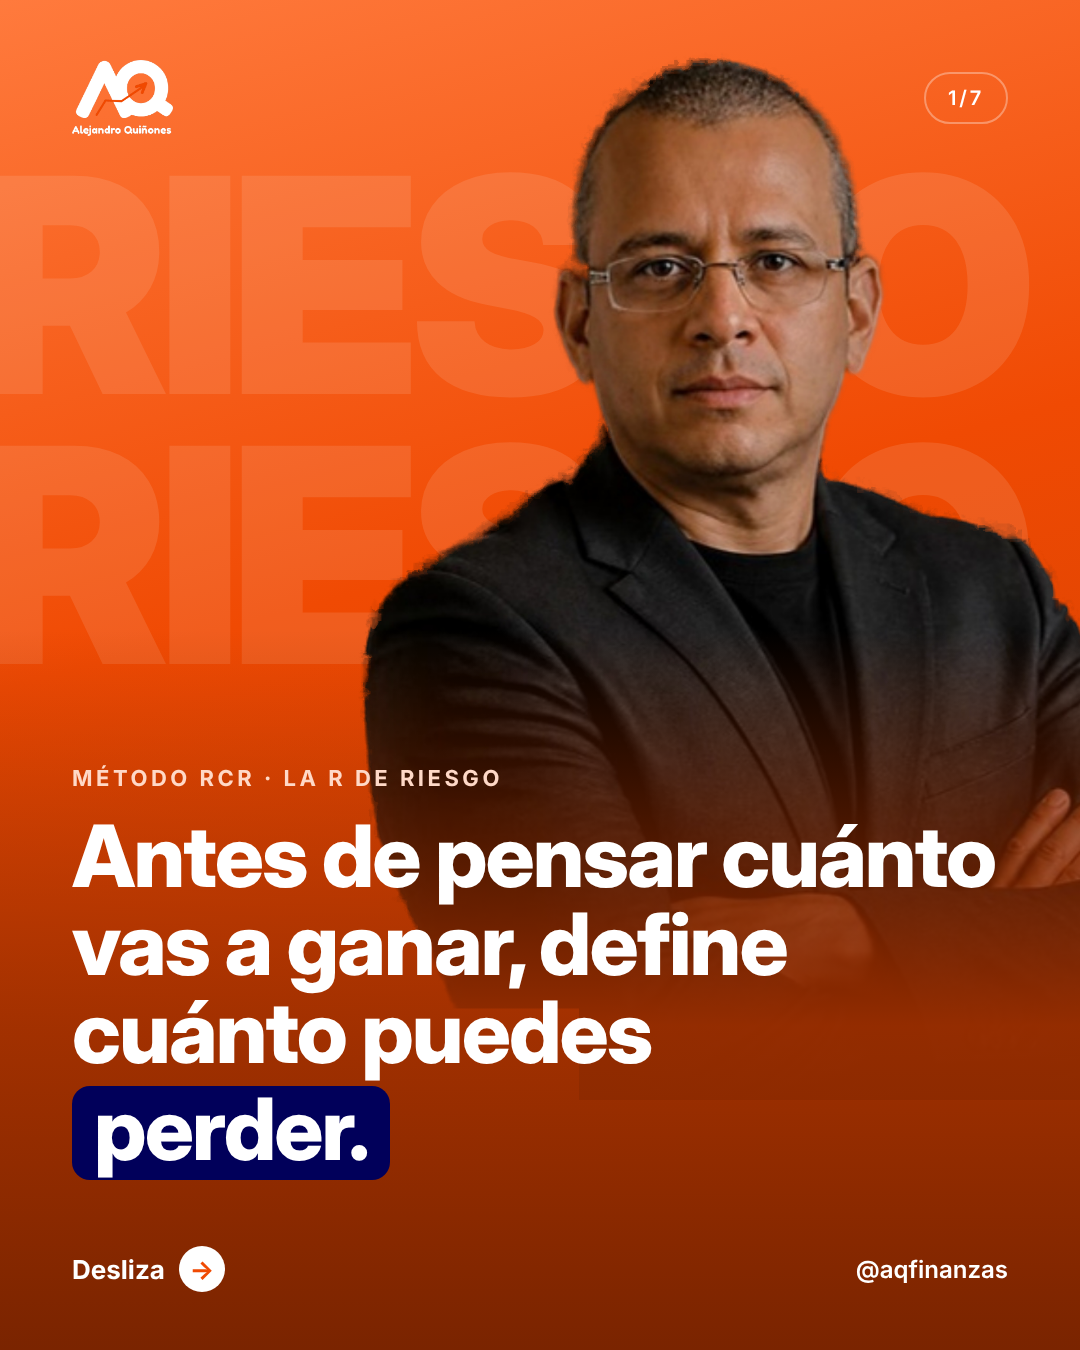
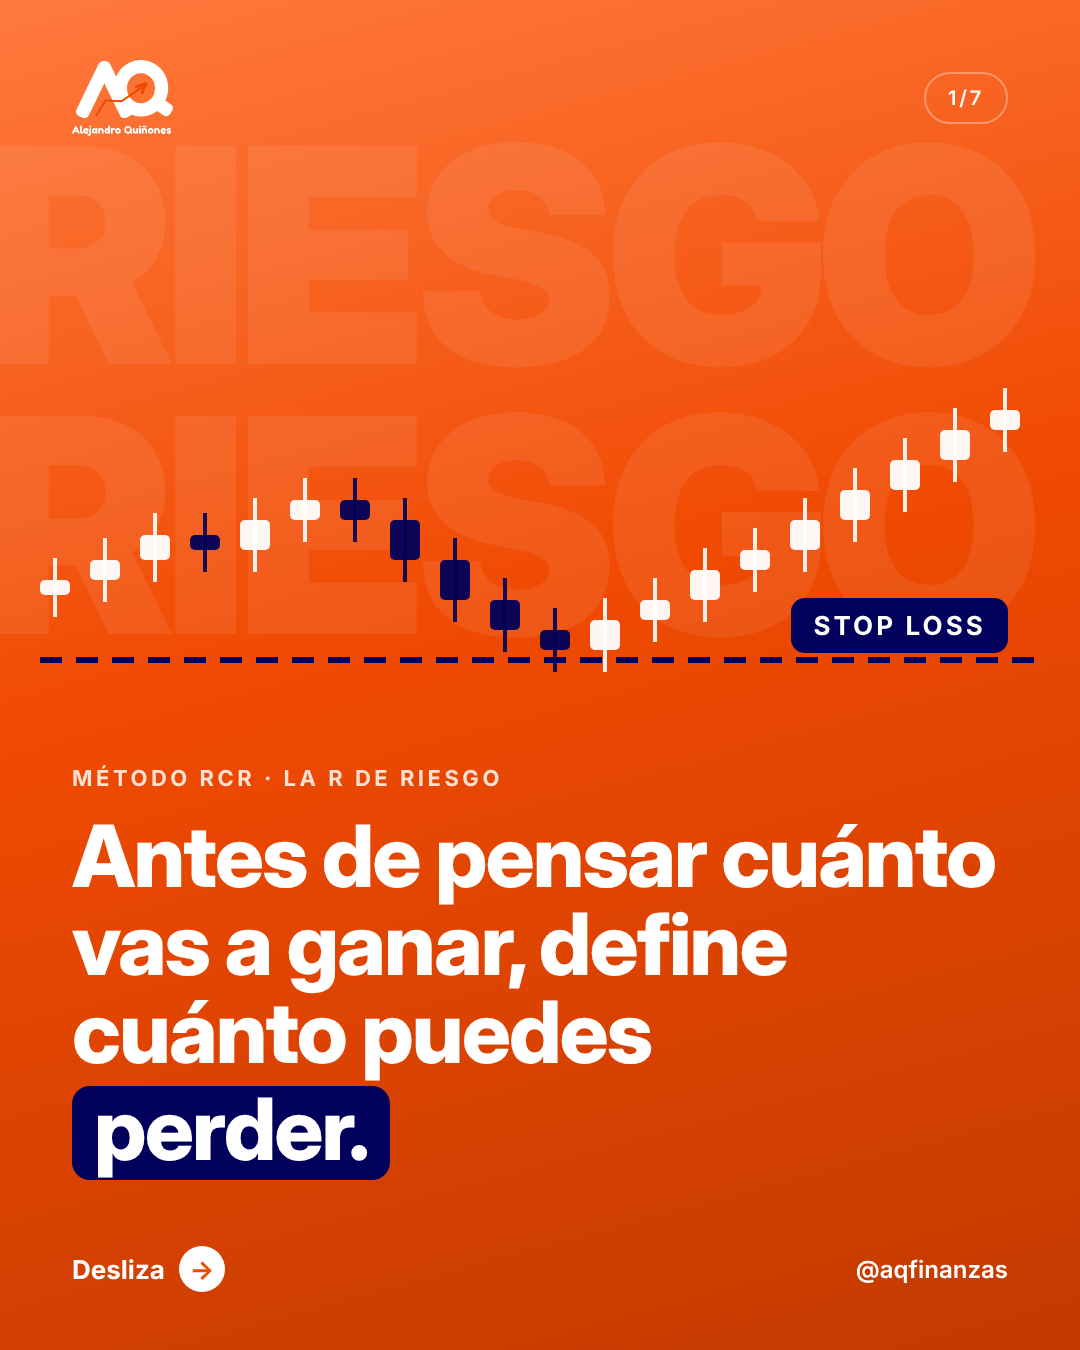
Carrusel riesgo: portada sin foto
Claude-Session: https://claude.ai/code/session_019HXdqjMEZ2PnpkBY9sAdYd

diff --git a/publicaciones/2026-10-22-carrusel-riesgo/build.py b/publicaciones/2026-10-22-carrusel-riesgo/build.py
@@ -28,20 +28,37 @@ body{font-family:'Inter';-webkit-font-smoothing:antialiased;position:relative}
 """
 
 def portada():
+    import random
+    random.seed(11)
+    # velas: suben, caen hacia el stop y rebotan
+    pts=[620,600,575,590,560,540,560,600,640,670,690,660,640,610,590,560,530,500,470,450]
+    velas=""; x=40
+    for i,c in enumerate(pts):
+        o = pts[i-1] if i else c+15
+        up = c < o
+        top, bot = min(o,c), max(o,c)
+        col = "#ffffff" if up else "#01005A"
+        velas += f'<line x1="{x+15}" y1="{top-22}" x2="{x+15}" y2="{bot+22}" stroke="{col}" stroke-width="4" opacity=".9"/>'
+        velas += f'<rect x="{x}" y="{top}" width="30" height="{max(10,bot-top)}" rx="5" fill="{col}" opacity=".95"/>'
+        x += 50
     return f"""<html><head><style>{BASE}
-body{{background:linear-gradient(165deg,#FF7A3D 0%,{NAR} 42%,#C23A00 100%)}}
-.giant{{position:absolute;top:150px;left:-30px;font:900 300px 'Inter Display';letter-spacing:-.04em;color:#ffffff1c;line-height:.9;white-space:nowrap}}
-.foto{{position:absolute;right:-70px;bottom:250px;height:1060px}}
-.fade{{position:absolute;left:0;right:0;bottom:0;height:720px;background:linear-gradient(180deg,#C23A0000 0%,#9E2F00EE 55%,#7A2400 100%)}}
+body{{background:linear-gradient(165deg,#FF7A3D 0%,{NAR} 45%,#C23A00 100%)}}
+.giant{{position:absolute;top:120px;left:-24px;font:900 300px 'Inter Display';letter-spacing:-.04em;color:#ffffff14;line-height:.9;white-space:nowrap}}
+.chart{{position:absolute;left:0;right:0;top:-40px}}
+.stoplbl{{position:absolute;right:72px;top:{-40+700-62}px;background:#01005A;color:#fff;font:800 26px Inter;letter-spacing:.12em;padding:12px 22px;border-radius:14px}}
 .txt{{position:absolute;left:72px;right:72px;bottom:170px;color:#fff;z-index:4}}
-.tag{{font:700 22px Inter;letter-spacing:.16em;color:#FFD9C7;margin-bottom:22px}}
+.tag{{font:700 22px Inter;letter-spacing:.16em;color:#FFE1D3;margin-bottom:22px}}
 .txt .h{{font-size:86px}}
 .blk{{display:inline-block;background:{MAR};color:#fff;padding:0 22px 6px;border-radius:18px;margin-top:10px}}
 .pill{{color:#fff;border:2px solid #ffffff55}}
 .sw i{{background:#fff;color:{NAR}}} .sw,.handle{{color:#fff}}
 </style></head><body>
 <div class="giant">RIESGO<br>RIESGO</div>
-<img class="foto" src="{FOTO}"><div class="fade"></div>
+<svg class="chart" width="1080" height="760" viewBox="0 0 1080 760">
+<line x1="40" y1="700" x2="1040" y2="700" stroke="#01005A" stroke-width="6" stroke-dasharray="22 14"/>
+{velas}
+</svg>
+<div class="stoplbl">STOP LOSS</div>
 <div class="top"><img src="{LW}"><div class="pill">1/{N}</div></div>
 <div class="txt"><div class="tag">MÉTODO RCR · LA R DE RIESGO</div>
 <div class="h">Antes de pensar cuánto vas a ganar, define cuánto puedes<br><span class="blk">perder.</span></div></div>

diff --git a/publicaciones/ORDEN-FEED.md b/publicaciones/ORDEN-FEED.md
@@ -10,7 +10,7 @@ No poner etiqueta "REEL" arriba a la derecha (choca con el ícono de Instagram).
 | 2026-10-16 17:00 | Reel | Mentalidad: el dinero como conflicto en casa | Cita B/N oscuro (foto seria escenario, play naranja abajo a la izquierda) | 2026-10-16-reel-mentalidad |
 | 2026-10-16 20:00 | Carrusel (7) | Ahorrar vs invertir (tortuga → cohete) | Blanco limpio sin foto en portada; foto solo en cierre | 2026-10-19-ahorrar-vs-invertir |
 | 2026-10-22 | Reel | Mentalidad: el dinero como conflicto en casa (nueva edición) | Portada = fotograma seg. 22 (B/N "RECUERDO" + DINERO naranja) | 2026-10-22-reel-mentalidad-editado |
-| 2026-10-22 19:00 | Carrusel (7) | Antes de ganar, define cuánto puedes perder (Riesgo RCR) | Naranja dominante + palabra gigante RIESGO (foto IA seria); interiores crema | 2026-10-22-carrusel-riesgo |
+| 2026-10-22 19:00 | Carrusel (7) | Antes de ganar, define cuánto puedes perder (Riesgo RCR) | Naranja dominante sin foto (velas + STOP) + RIESGO gigante; interiores crema | 2026-10-22-carrusel-riesgo |
 | (pendiente) | Reel | Las 3 causas de tus problemas financieros | Cinematográfico oscuro, foto IA seria | reel-3-causas |
 
 Próxima pieza: progresión de tonos; tras naranja (22 oct noche) evitar naranja dominante; buen siguiente: claro/blanco o azul marino.

diff --git a/publicaciones/2026-10-22-carrusel-riesgo/ficha.md b/publicaciones/2026-10-22-carrusel-riesgo/ficha.md
@@ -1,8 +1,8 @@
 # Carrusel · Antes de ganar, define cuánto puedes perder (Método RCR · Riesgo)
 
-- 7 láminas 1080×1350. Portada naranja dominante (foto IA 11-brazos-cruzados-blazer recortada, "RIESGO" gigante); interiores crema #FBF8F2 con azul marino y naranja.
+- 7 láminas 1080×1350. Portada naranja dominante SIN foto (velas + línea de STOP LOSS, "RIESGO" gigante); interiores crema #FBF8F2 con azul marino y naranja.
 - Feed: naranja → reel B/N → carrusel azul USA (progresión de tonos).
-- Contenido con IA: sí (foto de la portada generada con IA).
+- Contenido con IA: no.
 
 ## Copy
 ¿Sabes cuánto estás dispuesto a perder antes de comprar una acción? 🤔
